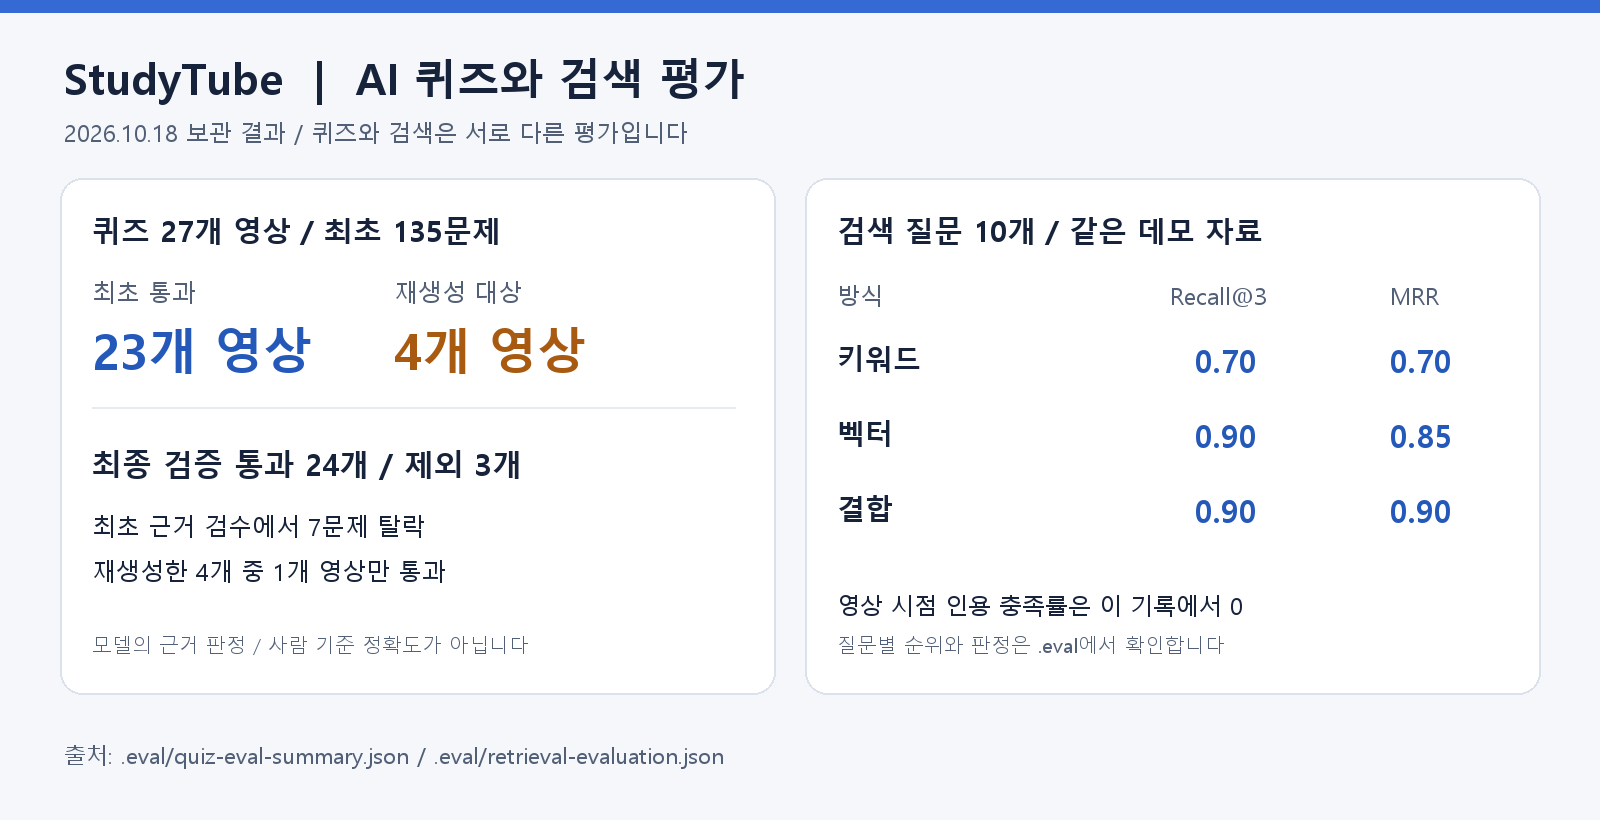
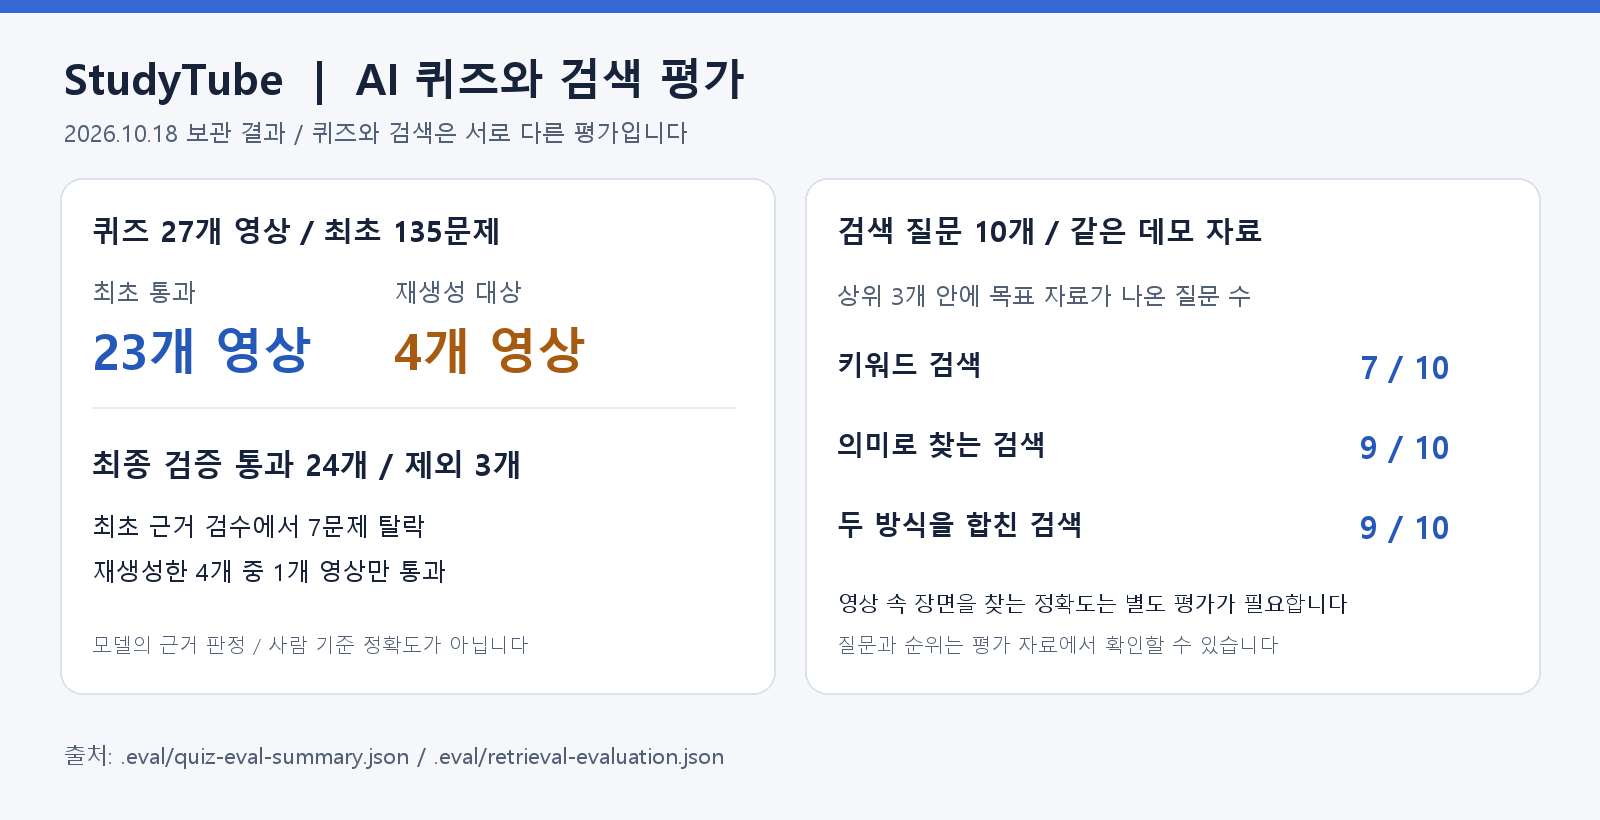
Fix: CI 의존성 보안 검사와 평가 자료 설명 수정

diff --git a/.eval/README.md b/.eval/README.md
@@ -30,6 +30,10 @@
 | 벡터 | 0.90 | 0.85 | 0.863093 |
 | 결합 | 0.90 | 0.90 | 0.90 |
 
+- 키워드는 입력한 단어로 찾고 벡터는 문장의 의미가 가까운 자료를 찾습니다. 결합 검색은 두 방식의 순위를 합칩니다.
+- Recall@3은 미리 정한 정답 자료가 상위 3개 결과에 얼마나 포함됐는지를 나타냅니다. 이 평가에서는 질문마다 정답 자료가 하나이므로 0.90은 질문 10개 중 9개에서 찾았다는 뜻입니다.
+- MRR은 정답이 검색 결과의 앞쪽에 나올수록 높아집니다. nDCG@5는 상위 5개 결과의 관련성과 순서를 함께 평가합니다.
+
 [최종 결과](retrieval-evaluation.json)는 실제 사용자 전체의 검색 품질을 대표하지 않습니다. 이 실행의 시점 인용 충족률(`citationCoverage`)은 0이므로 영상 시점 검색의 정확도를 입증하는 자료로 사용하지 않습니다.
 
 [진단 당시 결과](retrieval-evaluation.before.json)는 같은 질문에서 모든 검색이 빈 결과를 반환한 기록입니다. 이후 후보 필터 적용 위치와 거리 기준을 변경했으므로 이를 단일 변수의 성능 개선 실험으로 비교하지 않습니다. 실행 당시 Git HEAD와 설정값은 각 JSON에 남아 있습니다.
